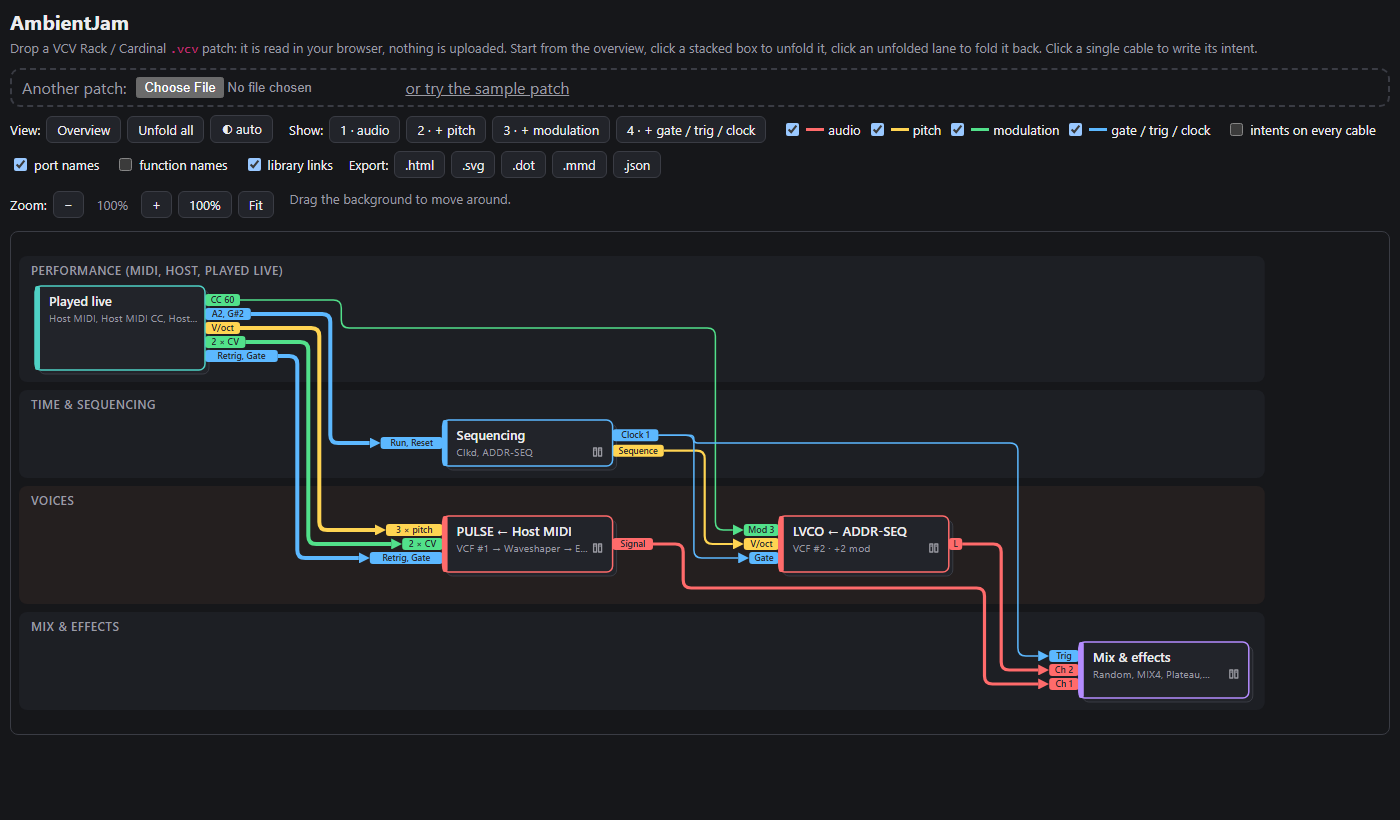
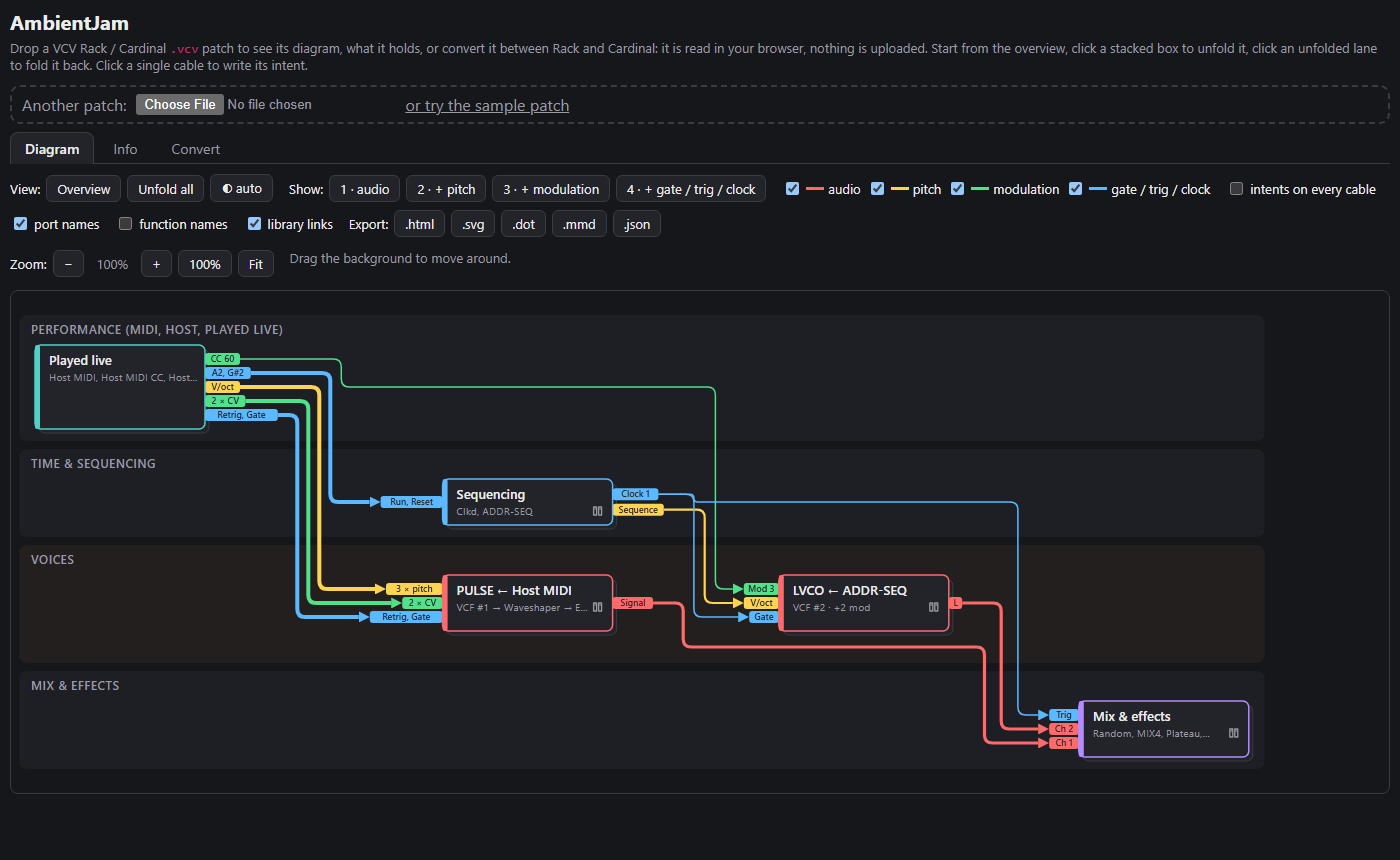
Refresh README screenshots for VcvPatchTools, add the Info tab

diff --git a/README.md b/README.md
@@ -274,7 +274,14 @@ On a phone or tablet (portrait or landscape), the diagram fills the screen and o
 
 <picture>
   <source media="(prefers-color-scheme: dark)" srcset="docs/screenshots/web-app-dark.png">
-  <img alt="The web app: drop zone, view, layer, export and zoom controls above the diagram" src="docs/screenshots/web-app-light.png">
+  <img alt="The web app: drop zone, Diagram / Info / Convert tabs, view, layer, export and zoom controls above the diagram" src="docs/screenshots/web-app-light.png">
+</picture>
+
+The **Info** tab tells what the patch is (format, Rack or Cardinal, the Rack version that saved it) and lists every module with its plugin, role and function, linked to its VCV Library page. The **Convert** tab converts it to the other application and downloads the result, or opens it in the app.
+
+<picture>
+  <source media="(prefers-color-scheme: dark)" srcset="docs/screenshots/info-dark.png">
+  <img alt="The Info tab: format, origin, Rack version, contents, then a table of every module with its plugin, role, function and band" src="docs/screenshots/info-light.png">
 </picture>
 
 `make publish-web` builds a static site in `publish/web/wwwroot`, which any static file server can host (no backend needed).
